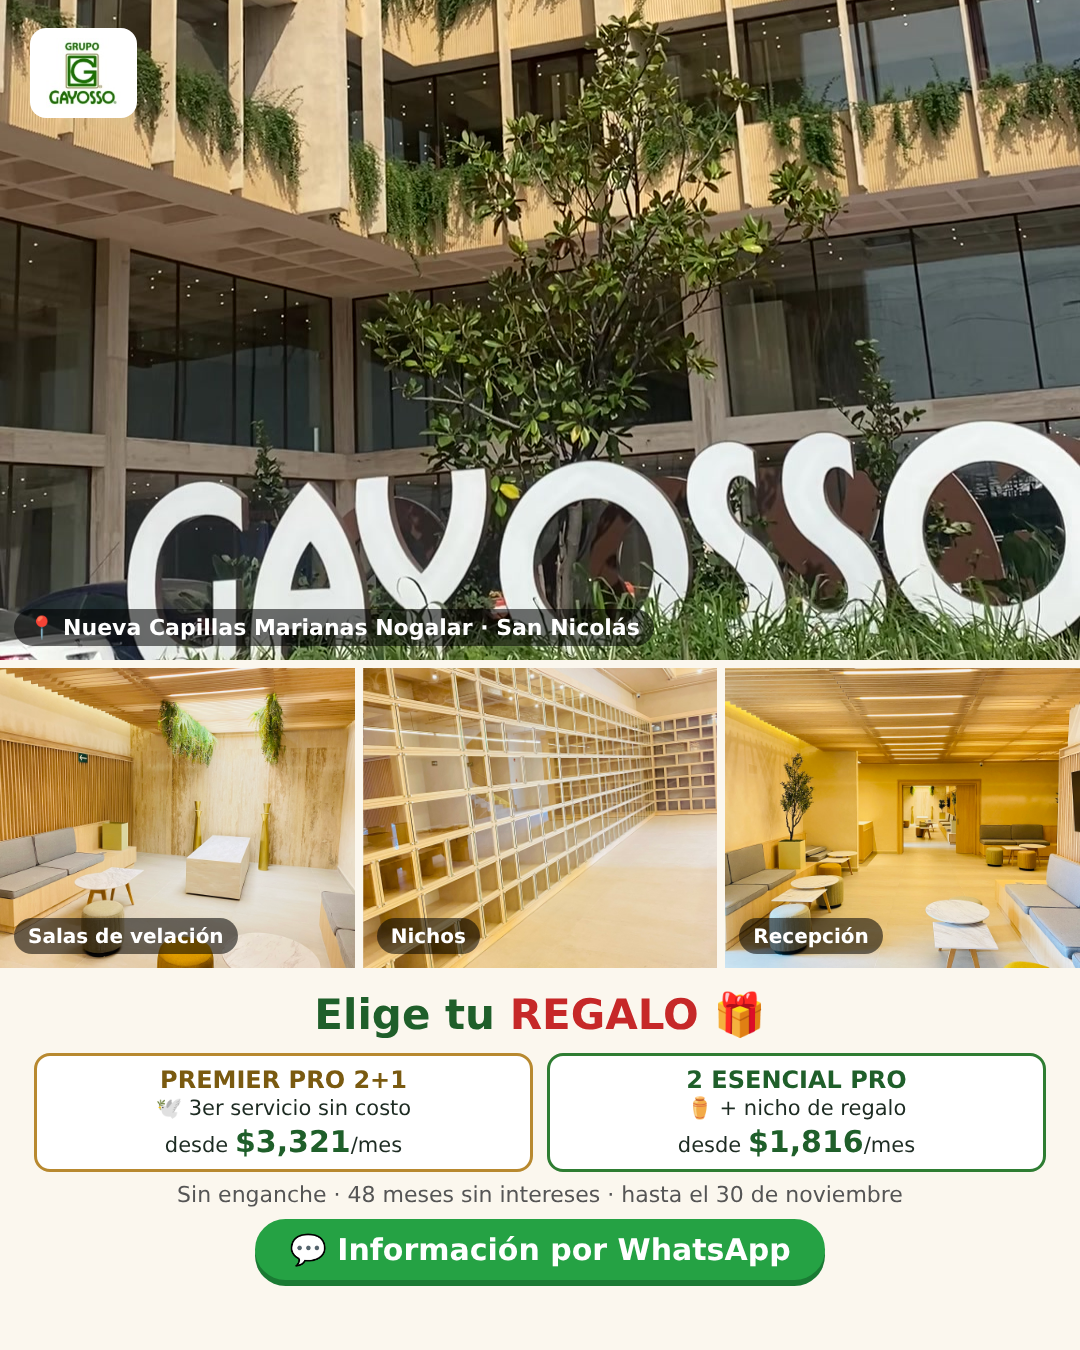
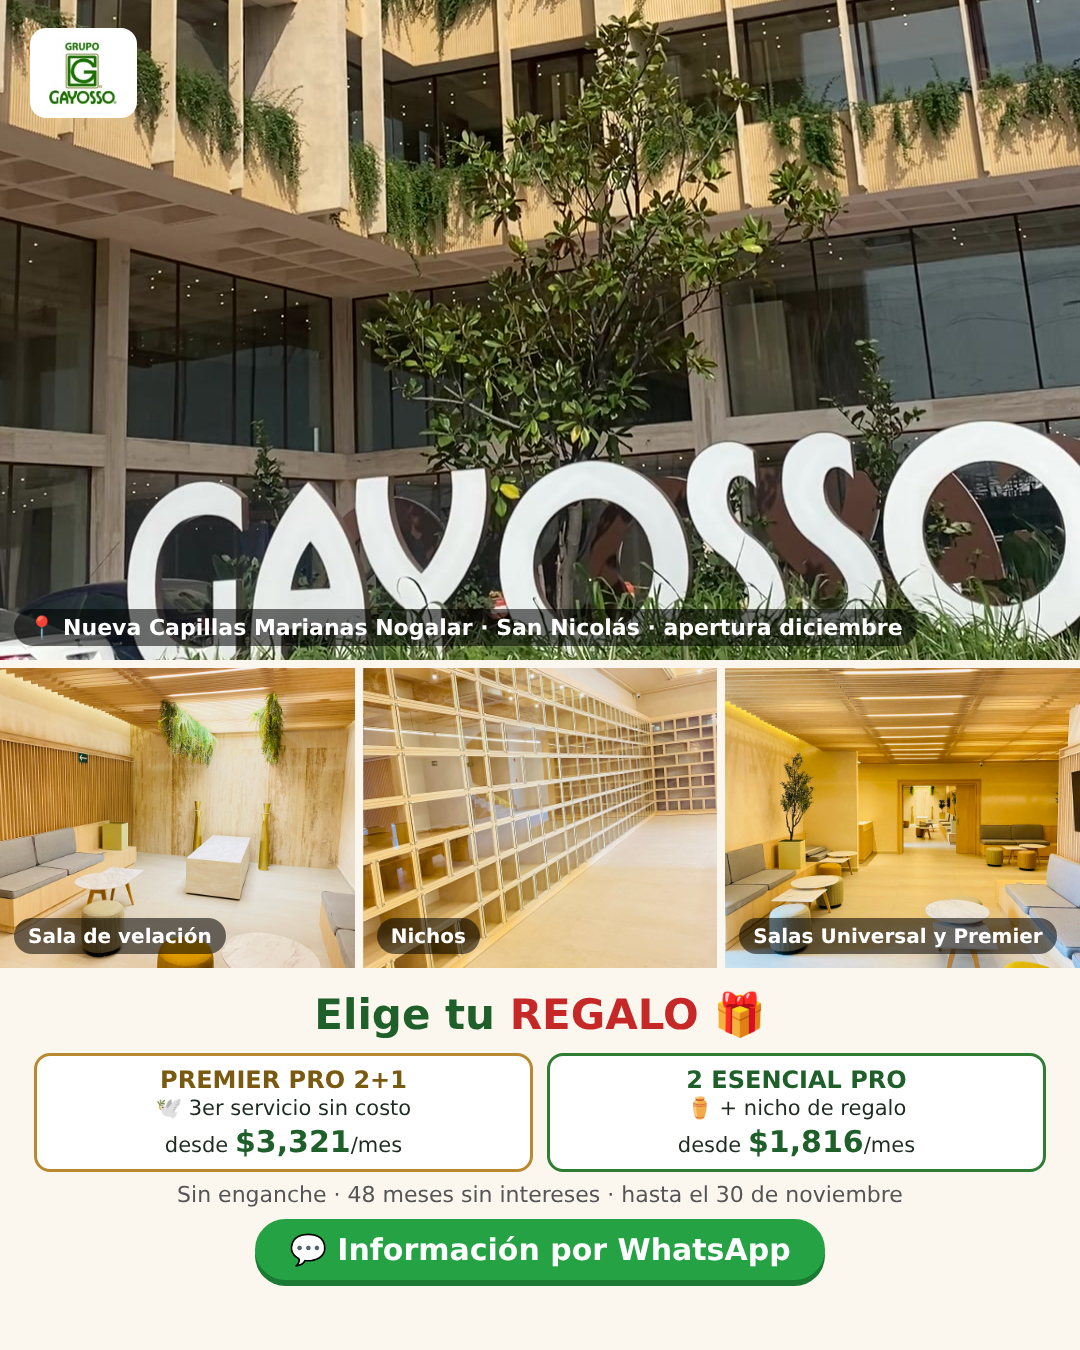
Anuncios v2: corrige rotulo de salas Universal/Premier
Claude-Session: https://claude.ai/code/session_01PccRGVGwaaPKDitcWkgoNs

Changed region(s): [[0.5806, 0.4356, 0.8556, 0.4978], [0.7028, 0.6533, 0.9778, 0.7156], [0.0611, 0.6844, 0.2444, 0.7156]]

diff --git a/propuesta/anuncio_regalo_C_elige_v2.html b/propuesta/anuncio_regalo_C_elige_v2.html
@@ -14,13 +14,13 @@ body{width:1080px;height:1350px;font-family:"DejaVu Sans",Arial,sans-serif;overf
  <div style="font-size:52px;font-weight:900;line-height:1.1;margin-top:6px">Elige tu regalo 🎁<br><span style="font-size:34px;font-weight:bold">2 servicios + 1 de obsequio</span></div></div>
 </div>
 <div style="display:flex;height:840px">
- <div class="ph" style="flex:1;background-image:url(fotos_nogalar/sala_velacion.jpg);background-position:60% center">
+ <div class="ph" style="flex:1;background-image:url(fotos_nogalar/lobby.jpg);background-position:30% center">
   <div style="position:absolute;inset:auto 0 0 0;padding:26px 20px;background:linear-gradient(0deg,rgba(0,0,0,.8),rgba(0,0,0,0));color:#fff;text-align:center">
-   <div style="font-size:36px;font-weight:900">PREMIER PRO 2+1</div><div style="font-size:24px;color:#e6c66e;font-weight:bold">🕊 3er servicio sin costo</div><div style="font-size:24px;margin-top:6px">desde <b style="font-size:40px">$3,321</b>/mes</div></div></div>
+   <div style="display:inline-block;background:rgba(0,0,0,.5);font-size:17px;padding:3px 12px;border-radius:14px;margin-bottom:8px">Salas Universal y Premier</div><div style="font-size:36px;font-weight:900">PREMIER PRO 2+1</div><div style="font-size:24px;color:#e6c66e;font-weight:bold">🕊 3er servicio sin costo</div><div style="font-size:24px;margin-top:6px">desde <b style="font-size:40px">$3,321</b>/mes</div></div></div>
  <div style="width:96px;flex:none;background:#fbf7ee;display:flex;align-items:center;justify-content:center;font-size:44px;font-weight:900;color:#b8892f">O</div>
  <div class="ph" style="flex:1;background-image:url(nogalar_nichos2.jpg)">
   <div style="position:absolute;inset:auto 0 0 0;padding:26px 20px;background:linear-gradient(0deg,rgba(0,0,0,.8),rgba(0,0,0,0));color:#fff;text-align:center">
-   <div style="font-size:36px;font-weight:900">2 ESENCIAL PRO</div><div style="font-size:24px;color:#e6c66e;font-weight:bold">⚱ + nicho de regalo</div><div style="font-size:24px;margin-top:6px">desde <b style="font-size:40px">$1,816</b>/mes</div></div></div>
+   <div style="display:inline-block;background:rgba(0,0,0,.5);font-size:17px;padding:3px 12px;border-radius:14px;margin-bottom:8px">Nicho para 2 urnas</div><div style="font-size:36px;font-weight:900">2 ESENCIAL PRO</div><div style="font-size:24px;color:#e6c66e;font-weight:bold">⚱ + nicho de regalo</div><div style="font-size:24px;margin-top:6px">desde <b style="font-size:40px">$1,816</b>/mes</div></div></div>
 </div>
 <div style="text-align:center;padding-top:34px">
   <div style="font-size:26px;color:#555;margin-top:6px"><b style="font-size:30px;color:#1f5f2a">Sin enganche · 48 meses sin intereses</b><br><span style="color:#c62828;font-weight:bold">⏰ Hasta el 30 de noviembre</span></div>

diff --git a/propuesta/anuncio_regalo_B_emocional_v2.html b/propuesta/anuncio_regalo_B_emocional_v2.html
@@ -8,13 +8,14 @@ body{width:1080px;height:1350px;font-family:"DejaVu Sans",Arial,sans-serif;overf
 .vig{display:inline-block;background:#c62828;color:#fff;font-weight:bold;font-size:26px;padding:9px 26px;border-radius:30px}
 .gold{color:#b8892f}
 </style></head><body>
-<div class="ph" style="position:absolute;inset:0;background-image:url(fotos_nogalar/sala_velacion.jpg);background-position:58% center"></div>
+<div class="ph" style="position:absolute;inset:0;background-image:url(fotos_nogalar/lobby.jpg);background-position:center 40%"></div>
 <div style="position:absolute;inset:0;background:linear-gradient(180deg,rgba(0,0,0,.05) 0%,rgba(0,0,0,0) 35%,rgba(20,40,25,.75) 62%,rgba(20,40,25,.95) 100%)"></div>
 <div style="position:absolute;left:36px;top:32px" class="logo"><img src="logo.jpg"></div>
 <div style="position:absolute;right:36px;top:36px;width:250px;height:250px;border-radius:50%;border:7px solid #e6c66e;background:url(nogalar_nichos1.jpg) center/cover;box-shadow:0 8px 24px rgba(0,0,0,.4)"></div>
+<div style="position:absolute;left:36px;top:132px;background:rgba(0,0,0,.55);color:#fff;font-weight:bold;font-size:20px;padding:6px 16px;border-radius:20px">Salas Universal y Premier · Nogalar</div>
 <div style="position:absolute;right:46px;top:296px;background:#e6c66e;color:#3b2a00;font-weight:bold;font-size:20px;padding:5px 16px;border-radius:20px">Nichos a perpetuidad</div>
 <div style="position:absolute;left:0;right:0;bottom:50px;text-align:center;color:#fff;padding:0 46px">
- <div style="font-size:32px;color:#e6c66e;font-weight:bold">Un lugar digno para tu familia, ya listo</div>
+ <div style="font-size:32px;color:#e6c66e;font-weight:bold">Salas amplias y un lugar digno para tu familia</div>
  <div style="font-size:60px;font-weight:900;line-height:1.08;margin-top:10px">Elige tu regalo 🎁</div>
  <div style="margin-top:16px;font-size:30px;line-height:1.5"><b>Premier Pro 2+1:</b> 3er servicio sin costo<br><span style="color:#e6c66e">desde $3,321/mes</span></div>
  <div style="margin-top:10px;font-size:30px;line-height:1.5"><b>2 Esencial Pro + nicho de regalo</b><br><span style="color:#e6c66e">desde $1,816/mes</span></div>

diff --git a/propuesta/anuncio_regalo_A_collage_v2.html b/propuesta/anuncio_regalo_A_collage_v2.html
@@ -10,12 +10,12 @@ body{width:1080px;height:1350px;font-family:"DejaVu Sans",Arial,sans-serif;overf
 </style></head><body>
 <div class="ph" style="height:660px;background-image:url(fotos_nogalar/fachada_gayosso.jpg);background-position:center 72%">
  <div style="position:absolute;left:30px;top:28px" class="logo"><img src="logo.jpg"></div>
- <div class="cap" style="font-size:22px">📍 Nueva Capillas Marianas Nogalar · San Nicolás</div>
+ <div class="cap" style="font-size:22px">📍 Nueva Capillas Marianas Nogalar · San Nicolás · apertura diciembre</div>
 </div>
 <div style="display:flex;gap:8px;height:300px;margin-top:8px">
- <div class="ph" style="flex:1;background-image:url(fotos_nogalar/sala_velacion.jpg)"><div class="cap">Salas de velación</div></div>
+ <div class="ph" style="flex:1;background-image:url(fotos_nogalar/sala_velacion.jpg)"><div class="cap">Sala de velación</div></div>
  <div class="ph" style="flex:1;background-image:url(nogalar_nichos2.jpg)"><div class="cap">Nichos</div></div>
- <div class="ph" style="flex:1;background-image:url(fotos_nogalar/lobby.jpg)"><div class="cap">Recepción</div></div>
+ <div class="ph" style="flex:1;background-image:url(fotos_nogalar/lobby.jpg)"><div class="cap">Salas Universal y Premier</div></div>
 </div>
 <div style="text-align:center;padding:22px 34px 0">
  <div style="font-size:42px;font-weight:900;color:#1f5f2a">Elige tu <span style="color:#c62828">REGALO</span> 🎁</div>

diff --git a/CLAUDE.md b/CLAUDE.md
@@ -548,3 +548,4 @@ Sistema de trabajo y "Mi Fórmula Personal de Éxito" (llenar el 1° de cada mes
 - 2026-11-17: CONFIRMADO NICHO GRANDE ZONA CAPILLA NIVEL MEDIO 823359 (Mausoleo Capillas Marianas) = 4 URNAS (dato del usuario). CIFRAS CAPILLAS MARIANAS (MC26/GCM8) "2 PREVISION GAYOSSO PREMIER PRO + PAQ.NICHO GRANDE ZONA CAPILLA NIV. MEDIO" (826890 ×2 + 823359, 25% en cotizador; Multiplaza SÍ, Ambivalente SÍ): lista M036 $313,780.02 (2 Premier $164,600.02 + nicho $149,180; 36 × $8,723.08); contado P001 $188,268.00 (nicho $89,508 + 2 Premier $98,760; ahorro $125,512.02, 40.0%; $22,377 por lugar del nicho); TDC D048 48 × $4,748.12 (precio $228,274.97: nicho $108,528.45 + 2 Premier $119,746.52; ahorro $85,505.05, 27.2%; < $157 diarios por todo); TDC D036 36 × $6,018.93 (precio $216,508.22: nicho $102,934.20 + 2 Premier $113,574.02; ahorro $97,271.80, 31.0%; $2,704 menos que la de lista). Beneficio total con certificado: 36 m $122,267 / 48 m $110,500. NO es "nicho de obsequio" (el total supera los 2 Premier a lista). Vs. 2 Premier solos Marianas: nicho por +$89,508 contado, +$2,091/mes a 48 m, +$2,651/mes a 36 m. Imagen: propuesta/premier2_nicho4_marianas.html (foto marianas_premier_capilla_c.jpg).
 - 2026-11-18: FOTOS REALES de Marianas Nogalar (usuario): propuesta/fotos_nogalar/ (fachada_gayosso.jpg = cuadro del video con letras GAYOSSO, sala_velacion.jpg con catafalco, lobby.jpg, lobby2.jpg, recepcion_logo.jpg, logo_g_pared.jpg). 3 MUESTRAS DE ANUNCIO "2 servicios + regalo: 1 servicio o 1 nicho" (hasta el 30-nov, desde $1,816/mes = 2 Esencial + nicho sup TDC 48): propuesta/anuncio_regalo_A_collage (fachada + sala + nichos + recepción), anuncio_regalo_B_emocional (sala de velación a sangre + círculo de nichos), anuncio_regalo_C_elige (sala vs nicho en dos mitades). Pendiente: elección del usuario y confirmación antes de subir a Meta.
 - 2026-11-18: VERSIÓN 2 de las 3 muestras (pedido del usuario: servicios = PREMIER PRO 2+1 desde $3,321/mes TDC 48; nicho = 2 ESENCIAL PRO + nicho de regalo desde $1,816/mes; CTA "Información por WhatsApp"; sin enganche, 48 meses sin intereses, hasta el 30-nov): propuesta/anuncio_regalo_A_collage_v2, anuncio_regalo_B_emocional_v2, anuncio_regalo_C_elige_v2 (.html/.png). Pendiente elección y confirmación para subir a Meta.
+- 2026-11-18: CORRECCIÓN del usuario: fotos_nogalar/lobby.jpg y lobby2.jpg NO son recepción: son SALAS de velación Universal/Premier (sin confirmar cuál). Rotular "Salas Universal y Premier". sala_velacion.jpg (catafalco) = "Sala de velación". Anuncios v2 actualizados: B y C usan lobby.jpg como sala amplia.
